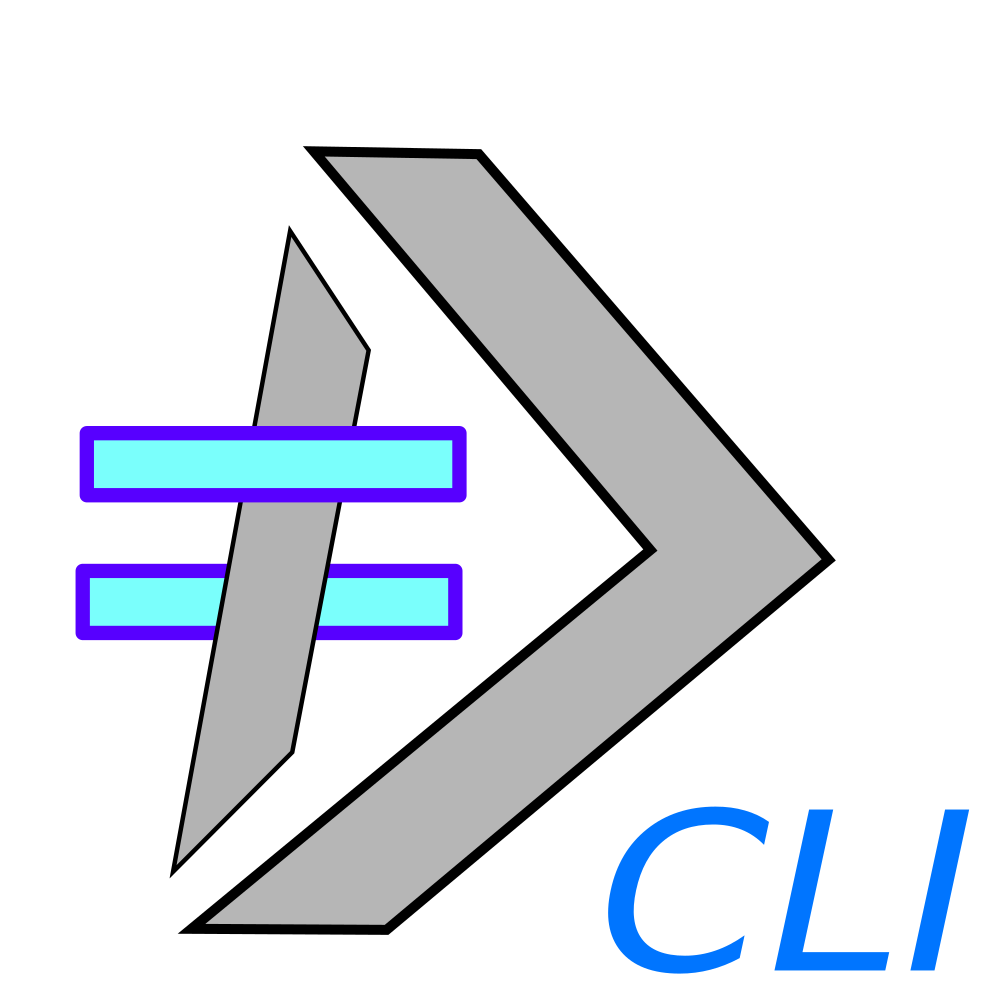
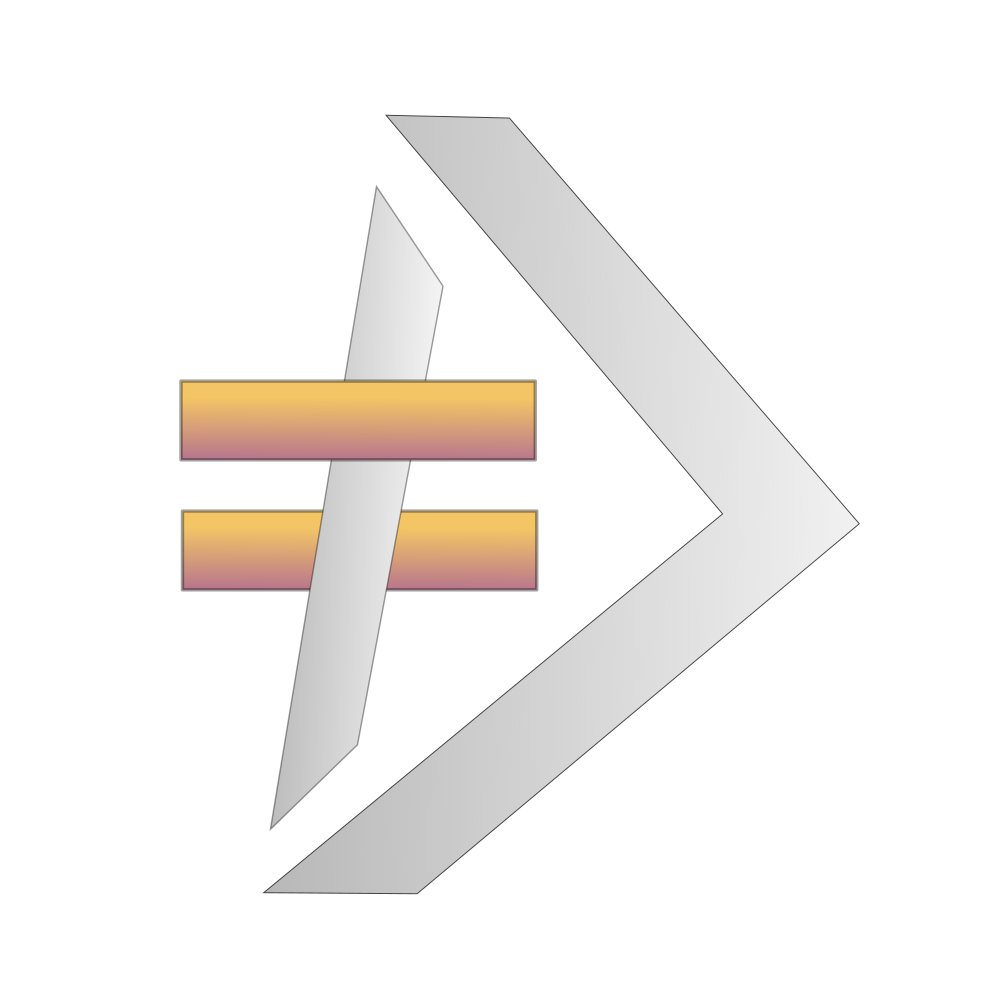
Merged docs, fixed several docs logging problems
- improved docs,  logos, credits

diff --git a/src/main/java/eu/kidf/diversicon/cli/commands/InitCommand.java b/src/main/java/eu/kidf/diversicon/cli/commands/InitCommand.java
@@ -7,19 +7,28 @@ import java.io.File;
 import java.io.IOException;
 import java.io.OutputStream;
 import java.io.PrintStream;
+import java.util.ArrayList;
+import java.util.Iterator;
+import java.util.List;
 
 import org.ini4j.Wini;
 import org.slf4j.Logger;
 import org.slf4j.LoggerFactory;
+import org.slf4j.event.LoggingEvent;
 
 import com.beust.jcommander.Parameter;
 import com.beust.jcommander.ParameterException;
 import com.beust.jcommander.Parameters;
 
+import ch.qos.logback.classic.Level;
+import ch.qos.logback.classic.LoggerContext;
+import ch.qos.logback.classic.spi.ILoggingEvent;
+import ch.qos.logback.core.Appender;
 import de.tudarmstadt.ukp.lmf.transform.DBConfig;
 import eu.kidf.diversicon.cli.DiverCli;
 import eu.kidf.diversicon.cli.exceptions.DiverCliException;
 import eu.kidf.diversicon.cli.exceptions.DiverCliIoException;
+import eu.kidf.diversicon.core.Diversicon;
 import eu.kidf.diversicon.core.Diversicons;
 import eu.kidf.diversicon.core.internal.Internals;
 import eu.kidf.diversicon.data.DivWn31;
@@ -98,6 +107,34 @@ public class InitCommand implements DiverCliCommand {
                 
     }
     
+
+    /**
+     * @since 0.1.0
+     */
+    // taken from http://mailman.qos.ch/pipermail/logback-user/2008-November/000751.html
+    private List<ch.qos.logback.classic.Logger> findLoggers(String prefix) {
+      LoggerContext lc = (LoggerContext) LoggerFactory.getILoggerFactory();
+      List<ch.qos.logback.classic.Logger> ret = new ArrayList<>();
+      for (ch.qos.logback.classic.Logger log : lc.getLoggerList()) {
+        if(log.getLevel() != null || hasAppenders(log)) {
+          //if (log.getName().startsWith(prefix)){
+            
+              ret.add(log);
+          //}
+        }
+      }
+      return ret;
+    }
+
+    /**
+     * @since 0.1.0
+     */
+    private boolean hasAppenders(ch.qos.logback.classic.Logger logger) {
+      Iterator<Appender<ILoggingEvent>> it = logger.iteratorForAppenders();
+      return it.hasNext();
+    }
+    
+    
     /**
      * {@inheritDoc}
      * @since 0.1.0
@@ -105,6 +142,7 @@ public class InitCommand implements DiverCliCommand {
     @Override
     public void run(){
         
+
         String targetDbPath = prjFolder.getAbsolutePath() + "/" + dbName;
         
         DBConfig dbCfg = Diversicons.h2MakeDefaultFileDbConfig(
@@ -125,20 +163,53 @@ public class InitCommand implements DiverCliCommand {
 
             LOG.info("Recreating tables in database  " + dbCfg.getJdbc_url() + " ...");
 
+                       
+            LoggerContext lc =
+                     ((ch.qos.logback.classic.Logger)LOG).getLoggerContext();
+                                     List<String> strList = new ArrayList<String>();
+                                     Iterator<ch.qos.logback.classic.Logger> it =
+                     lc.getLoggerList().iterator();
+                                     while(it.hasNext()) {
+                                       Logger log = it.next();
+                                       strList.add(log.getName());
+                                     }
             
-            
-            // because of UBY printlns, just setting log level isn enough :-/
-            // ch.qos.logback.classic.Logger LOG = (ch.qos.logback.classic.Logger) org.slf4j.LoggerFactory.getLogger(Diversicon.class.getName());
-            // Level savedLevel = LOG.getLevel();
 
+            List<ch.qos.logback.classic.Logger> loggers = findLoggers(Diversicons.class.getPackage().getName());
+            List<Level> savedLevels = new ArrayList<>();
+            
             try {
-                // LOG.setLevel(Level.WARN);
+                for (ch.qos.logback.classic.Logger log : loggers){
+                    savedLevels.add(log.getLevel());
+                    Level lev = log.getLevel();
+                    
+                    if (lev == null || lev.isGreaterOrEqual(Level.ERROR)){                                   
+                        log.setLevel(Level.OFF);  // i.e. because of bastard Hibernate ...
+                    } else {
+                        log.setLevel(Level.ERROR); // because warnings will be issued for missing db namespaces
+                    }
+                        
+                }
+            
+                
+                // because of UBY printlns, just setting log level isn enough :-/                
                 System.setOut(new PrintStream(
                         new OutputStream() { @Override public void write(int b) { }}
                         ));
                 Diversicons.dropCreateTables(dbCfg);            
             } finally {
                 System.setOut(savedOut);
+                int i = 0;
+                for (ch.qos.logback.classic.Logger log : loggers){
+                    if (i >=  savedLevels.size()){
+                        System.err.println("ERROR WHILE RESTORING LOGGERS !!");
+                        break;
+                    }
+                    log.setLevel(savedLevels.get(i)); // because warnings will be issued for missing db namespaces
+                    i++;
+                } 
+
+                               
             }
         }                                                                               
                

diff --git a/src/test/java/eu/kidf/diversicon/cli/test/DocsGenIT.java b/src/test/java/eu/kidf/diversicon/cli/test/DocsGenIT.java
@@ -17,6 +17,8 @@ import java.util.HashMap;
 import java.util.List;
 import java.util.Map;
 
+import javax.annotation.Nullable;
+
 import org.apache.commons.csv.CSVFormat;
 import org.apache.commons.csv.CSVPrinter;
 import org.apache.commons.exec.CommandLine;
@@ -43,6 +45,7 @@ import eu.kidf.diversicon.cli.commands.LogCommand;
 import eu.kidf.diversicon.cli.exceptions.DiverCliIoException;
 import eu.kidf.diversicon.core.BuildInfo;
 import eu.kidf.diversicon.core.ImportJob;
+import eu.kidf.diversicon.core.exceptions.InvalidImportException;
 import eu.kidf.diversicon.data.DivWn31;
 import eu.kidf.diversicon.data.Smartphones;
 
@@ -423,8 +426,6 @@ public class DocsGenIT extends DiverCliTestBase {
     }
 
     
-    
-
     /**
      * 
      * Associates to args key something like this:
@@ -439,40 +440,49 @@ public class DocsGenIT extends DiverCliTestBase {
      * 
      * @since 0.1.0
      */
-    private DiverCli diver(String key, String... args) { 
+    @Nullable
+    private DiverCli diver(String key, String... args) {        
         
         startCaptureSlf4j();
         
-        DiverCli cli = DiverCli.of(args);
+        DiverCli cli = null;
         
-        if (evals.containsKey(key)){
-            LOG.debug("Found already evaluated cli command key '" + key + "', recalculating...");
-        } 
+        try {
+                    
+            cli = DiverCli.of(args);
+            
+            if (evals.containsKey(key)){
+                LOG.debug("Found already evaluated cli command key '" + key + "', recalculating...");
+            } 
+                
+            cli.run();    
         
-        cli.run();                
-        
-        StringBuilder sbStr = new StringBuilder();
-        for (int i = 0, il = args.length; i < il; i++) {
-            if (i > 0)
-                sbStr.append(" ");
-            sbStr.append(args[i]);
+        } finally {
+            StringBuilder sbStr = new StringBuilder();
+            for (int i = 0, il = args.length; i < il; i++) {
+                if (i > 0)
+                    sbStr.append(" ");
+                sbStr.append(args[i]);
+            }
+
+            String cap = stopCaptureSlf4j();
+
+            String val = "```bash\n"
+                    + "> " + DIVERCLI + " " + sbStr.toString() + "\n"
+                    + cap.replace(System.getProperty(DiverCli.SYSTEM_PROPERTY_WORKING_DIR) + "/", "")
+                         .replace(System.getProperty(DiverCli.SYSTEM_PROPERTY_WORKING_DIR), "")
+                         .replace(System.getProperty(DiverCli.SYSTEM_PROPERTY_USER_HOME) + "/", "/home/divergeek/")
+                         .replace(System.getProperty(DiverCli.SYSTEM_PROPERTY_USER_HOME), "/home/divergeek/")
+                    + "\n"
+                    + "```\n";
+            
+            evals.put(key, val);
+            
         }
-
-        String cap = stopCaptureSlf4j();
-
-        String val = "```bash\n"
-                + "> " + DIVERCLI + " " + sbStr.toString() + "\n"
-                + cap.replace(System.getProperty(DiverCli.SYSTEM_PROPERTY_WORKING_DIR) + "/", "")
-                     .replace(System.getProperty(DiverCli.SYSTEM_PROPERTY_WORKING_DIR), "")
-                     .replace(System.getProperty(DiverCli.SYSTEM_PROPERTY_USER_HOME) + "/", "/home/divergeek/")
-                     .replace(System.getProperty(DiverCli.SYSTEM_PROPERTY_USER_HOME), "/home/divergeek/")
-                + "\n"
-                + "```\n";
         
-        evals.put(key, val);
         
-        return cli;
-    }
+        return cli;        
+    }    
 
     
     /**
@@ -500,6 +510,35 @@ public class DocsGenIT extends DiverCliTestBase {
         bash("wn31.dir", "dir");
     }
 
+    /**
+     * @since 0.1.0
+     */    
+    @Test
+    public void smartphonesInitFailed() {       
+        emptyInit();
+        try {
+            diver("smartphones.import.failed",            
+                ImportXmlCommand.CMD, "--author", "\"John Doe\"", "--description", "Some test import",
+                 Smartphones.XML_URI );
+        } catch (InvalidImportException ex){
+            
+        }
+    }    
+
+    /**
+     * @since 0.1.0
+     */    
+    @Test
+    public void smartphonesInitForce() {       
+        emptyInit();
+        diver("smartphones.import.force",            
+                ImportXmlCommand.CMD,
+                "--force",
+                "--author", "\"John Doe\"", "--description", "Some test import",
+                 Smartphones.XML_URI );          
+    }    
+    
+    
     /**
      * @since 0.1.0
      */    

diff --git a/docs/README.md b/docs/README.md
@@ -47,7 +47,7 @@ my-script.sql
 
 ``` 
 
-DiverCli comes with full support for <a href="http://h2database.com" target="_blank"> H2 database </a>, which is shipped with DiverCli and doesn't require separate installation (for info on browsing databases, see [Tools page](Tools#h2)). 
+DiverCli comes with full support for <a href="http://h2database.com" target="_blank"> H2 database </a>, which is shipped with DiverCli and doesn't require separate installation (for info on browsing databases, see [Tools page](Tools.md#h2)). 
 
 Let's create our first H2 file-based database with Wordnet 3.1 inside:
 
@@ -57,7 +57,7 @@ In detail:
  
 * `--prj wn31` tells DiverCLI in which folder to put the project
 * `init` is the actual comand given to DiverCli
-* `--db` specifies to `init` command where to take the db. In this case Wordnet 3.1 is pre-packaged in the DiverCLI distribution so we picked it with the special URL beginning with `classpath:`. 
+* `--db` specifies to `init` command where to take the db. In this case Wordnet 3.1 is pre-packaged in the DiverCLI distribution so we picked it with the special URL beginning with `classpath:` 
 
 Notice that `--prj` always goes _before_ commands. 
 
@@ -71,7 +71,7 @@ $eval{wn31.dir}
 
 The file `divercli.ini` tells DiverCli where to connect when we launch the tool from the project directory. In this particular case the database is in the same folder, but it could be anywhere, even a remote connection. 
 
-You can check things are working by issuing the `log` command, which will show a status of the database and a log of the imports done so far:
+You can check things are working by issuing the `log` command, which will show a status of the database and a log of the imports done so far. Notice the first import is always the `[div-upper](https://github.com/diversicon-kb/diversicon-model/blob/master/src/main/resources/div-upper.xml)` lexical resource:
 
 $eval{wn31.log}
 
@@ -131,12 +131,23 @@ $eval{wn31.dir}
 
 ### Importing XMLs
 
+You can import an XML with the {eu.kidf.diversicon.cli.commands.ImportXMLCommand.CMD} command.
+When you import an XML, it is going to be validated in todo steps:
+
+
+$eval{empty.init}
+
+```bash
+$eval{empty.cd}
+$eval{smartphones.import.failed}
+``` 
+
 #### Preprocessing XMLs
 
 
 ### Exporting XMLs
 
-You can export a _LexicalResource_ by issuing this command 
+You can export a lexical resource by issuing the command $eval{eu.kidf.diversicon.cli.commands.ExportXmlCommand.CMD}: 
 
 $eval{empty.init}
 
@@ -144,14 +155,6 @@ $eval{empty.init}
 $eval{empty.cd}
 ```
 
-
-You can export a _LexicalResource_ by issuing this command 
-
-$eval{empty.init}
-
-```bash
-$eval{empty.cd}
-```
 
 
 ### Import logs

diff --git a/README.md b/README.md
@@ -5,7 +5,7 @@ RELEASE DOCS ARE ON THE <a href="http://davidleoni.github.io/divercli/" target="
 </p>
 
 <p class="josman-to-strip" align="center">
-<img alt="DiverCLI" src="docs/img/divercli-200px.png" width="150px">
+<img alt="DiverCLI" src="docs/img/divercli-writing-400px.png" >
 <br/>
 </p>
 
@@ -22,7 +22,8 @@ Java command line client for <a href="https://github.com/diversicon-kb/diversico
 
 **Features**
   
-  * supports <a href="http://www.h2database.com/html/main.html" target="_blank">H2 DB</a>, a pure Java database (both in-memory and on disk, no separate installation is required).
+  * supports all features of <a href="https://diversicon-kb.eu/manual/diversicon-core" target="_blank">Diversicon-Core</a> 
+  * allows configuration both global and per-project    
   * dependency handling with Maven    
   * unit tested with proper integration tests    
   * supports Java 7+
@@ -35,5 +36,20 @@ Java command line client for <a href="https://github.com/diversicon-kb/diversico
 
 #### Credits
 
-* Programming:  David Leoni - Heriot Watt University, Edinburgh - david.leoni at unitn.it
-* Architecture: Gabor Bella - DISI, University of Trento -  gabor.bella at unitn.it
+Design:
+
+* Fiona McNeill - Heriot Watt University, Edinburgh - f.mcneill at hw.ac.uk 
+* Gabor Bella - DISI, University of Trento -  gabor.bella at unitn.it
+* David Leoni - Heriot Watt University, Edinburgh - david.leoni at unitn.it
+
+Programming:  
+
+* David Leoni - Heriot-Watt University, Edinburgh - david.leoni at unitn.it
+
+Based on <a href="http://dkpro.github.io/dkpro-uby/" target="blank">DKPRO UBY framework</a>, by UKP Lab, Technische Universität Darmstadt.
+
+Made possible thanks to:
+
+&emsp;&emsp;&emsp;<a href="https://www.hw.ac.uk/schools/mathematical-computer-sciences/departments/computer-science.htm" target="_blank"> <img src="docs/img/hw.webp" width="80px" style="vertical-align:middle;"> </a> &emsp;&emsp;&emsp;<a href="https://www.hw.ac.uk/schools/mathematical-computer-sciences/departments/computer-science.htm" target="_blank"> Heriot-Watt Computer Science Department </a>  
+
+&emsp;<a href="http://kidf.eu" target="_blank"> <img style="vertical-align:middle;" width="140px" src="docs/img/kidf-scientia.png"> </a> &emsp; <a href="http://kidf.eu" target="_blank"> Knowledge in Diversity Foundation </a> <br/>

diff --git a/docs/CHANGES.md b/docs/CHANGES.md
@@ -1,10 +1,13 @@
 
-DIVERSICON #{version} RELEASE NOTES
+DIVERCLI ${project.version} RELEASE NOTES
 -----------------------------------
 
-http://davidleoni.github.io/diversicon  
+http://diversicon-kb.eu/manual/divercli  
 
 
-### 0.1.0 - TODO  
+### 0.1.0 - TODO date   
 
+- supports all features of Diversicon Core 0.1.0
+- allows configuration both global and per-project
 
+Closed issues: https://github.com/diversicon-kb/divercli/milestone/1?closed=1
